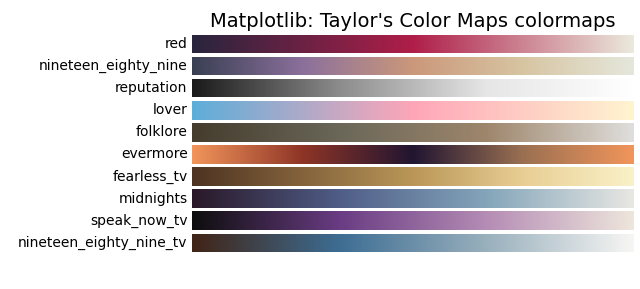
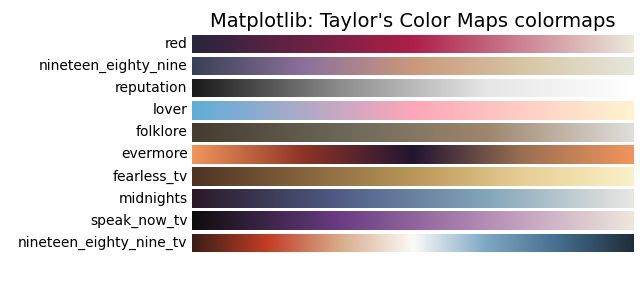
New 1989_tv

Changed region(s): [[0.3125, 0.8097, 1.0, 0.872]]

diff --git a/swiftascmaps/__init__.py b/swiftascmaps/__init__.py
@@ -52,5 +52,6 @@ fearless_tv, fearless_tv_r = make_custom_cmap("fearless_tv", colors.fearless_tv)
 red_tv, red_tv_r = make_custom_cmap("red_tv", colors.red_tv)
 midnights, midnights_r = make_custom_cmap("midnights", colors.midnights)
 speak_now_tv, speak_now_tv_r = make_custom_cmap("speak_now_tv", colors.speak_now_tv)
-nineteen_eighty_nine_tv, nineteen_eighty_nine_tv_r = make_custom_cmap("nineteen_eighty_nine_tv", colors.nineteen_eighty_nine_tv)
-
+nineteen_eighty_nine_tv, nineteen_eighty_nine_tv_r = make_custom_cmap(
+    "nineteen_eighty_nine_tv", colors.nineteen_eighty_nine_tv
+)

diff --git a/swiftascmaps/make_cmap.py b/swiftascmaps/make_cmap.py
@@ -28,9 +28,7 @@ def hex_to_rgb(colors: List[str]) -> List[List[int]]:
     rgb_colors = []
 
     for color in colors:
-        rgb_colors.append(
-            list(int(color[1:][i:i+2], 16) for i in (0, 2, 4))
-        )
+        rgb_colors.append(list(int(color[1:][i : i + 2], 16) for i in (0, 2, 4)))
 
     return rgb_colors
 
@@ -80,5 +78,5 @@ def make_custom_cmap(name: str, colors: List) -> Tuple[LinearSegmentedColormap]:
 
     register_cmap(cmap=cmap)
     register_cmap(cmap=cmap_r)
-    
+
     return cmap, cmap_r

diff --git a/swiftascmaps/colors.py b/swiftascmaps/colors.py
@@ -96,10 +96,5 @@ speak_now_tv = hex_to_rgb(
 )
 
 nineteen_eighty_nine_tv = hex_to_rgb(
-    [
-        "#412416",
-        "#3D6D93",
-        "#99B0BD",
-        "#F7F6F4",
-    ]
+    ["#3A1F16", "#C13C25", "#D7AB8A", "#FBFAF8", "#7EA7C5", "#446D8D", "#1F2D3B"]
 )
